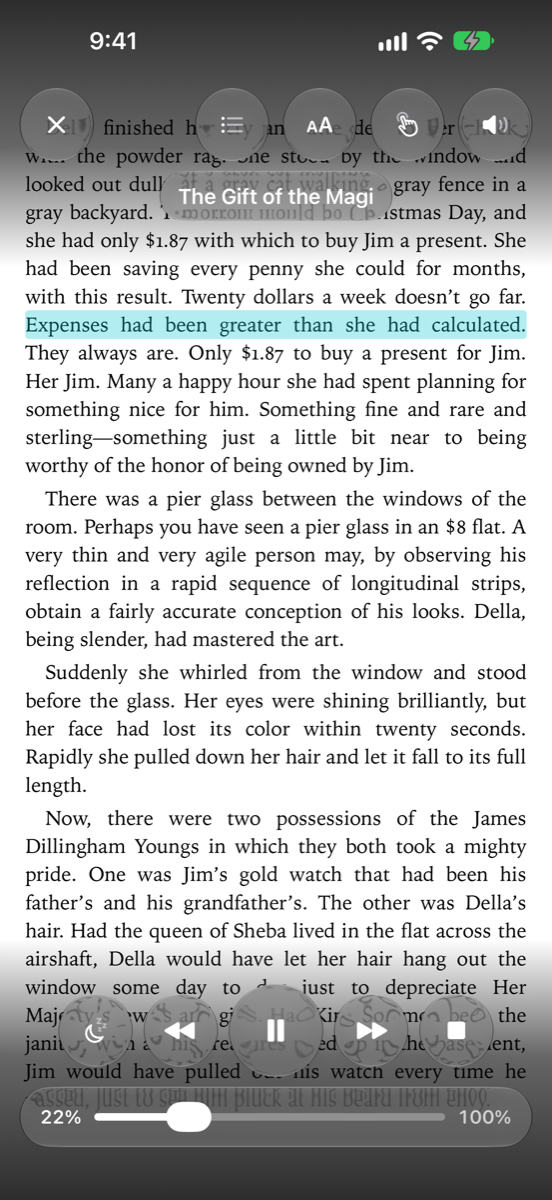
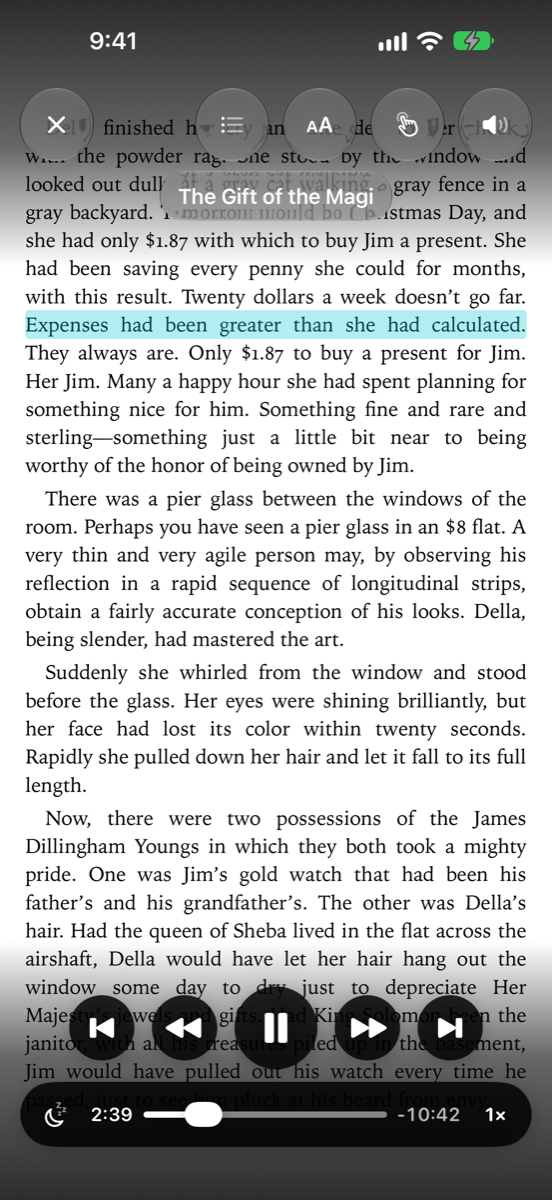
Publish the guide (from 3606d802)

Changed region(s): [[0.0308, 0.8017, 0.9855, 0.9558]]

diff --git a/Reader.md b/Reader.md
@@ -145,9 +145,9 @@ An EPUB's text reflows to fit your screen. Its controls are a little different:
   - **Text Size**, **Font** (the book's own, or one of several, including OpenDyslexic), **Margins**, **Columns** (**Automatic**, **One Column** or **Two Columns**), **Line Spacing**, **Paragraph Spacing**, **Justify** and **Hyphenation**.
   - **Book's Layout** keeps the layout the book was made with.
   - **Turn Style**: **Slide**, **Curl**, **Instant** or **Vertical Scroll**.
-- **Read Aloud** (the speaker) reads the book to you from the page you're on. Its speed and whether it turns pages for you are in Settings → Reading → **Turning Pages**.
+- **Read Aloud** (the speaker) reads the book to you from the page you're on, and tap it again to stop. While it reads, a row of buttons like the video player's sits at the bottom: **Previous Chapter**, **Previous Sentence**, a large **Pause** in the middle, **Next Sentence** and **Next Chapter**. The sleep timer (the moon) and the speed sit either side of the scrubber. **Previous Chapter** goes back to the start of the chapter, or to the one before if you're right at its start. Whether it turns pages for you is in Settings → Reading → **Turning Pages**.
 
-The scrubber moves through the book by position. With **Shade Behind Controls** on, the dark shade sits behind the buttons, the Read Aloud bar and the scrubber here too, and they turn light so they stand out on a white page. Tap zones, keys and page turners work as they do for comics. As with comics, what you change in **Aa** is for this book only; **Aa** also has this book's Read Aloud speed and highlight.
+The scrubber moves through the book by position. With **Shade Behind Controls** on, the dark shade sits behind the buttons, the Read Aloud controls and the scrubber here too, and they turn light so they stand out on a white page. Tap zones, keys and page turners work as they do for comics. As with comics, what you change in **Aa** is for this book only; **Aa** also has this book's Read Aloud speed and highlight.
 
 As in a printed book, the chapter's name and the time left in it sit above the text, and a page number sits under each page, counted from the start of the chapter. They show while the controls are hidden. Turn each off in Settings → Reading → **Book Types** → **Around the Text**.
 
@@ -166,12 +166,12 @@ Some EPUBs carry their own recording, with each sentence marked as it's spoken. 
 
 - The sentence being spoken is highlighted (in teal, or the color you pick in Settings → Reading → Turning Pages → **Highlight Color**), and the page turns to follow it.
 - A sentence that would run past the bottom of a page starts on the next page instead, so the highlighted sentence isn't cut in two by a page turn. Pages sometimes end early because of it, but never with more than a third of the page left blank: where moving a sentence would leave more, it stays split. A split sentence, or one longer than a whole page, turns to its next page as the narration reaches it. To lay the pages out as other books are, turn off Settings → Reading → **Turning Pages** → **Keep Sentences on One Page**.
-- The Read Aloud bar is laid out like the video player's controls: the sleep timer, **Previous Sentence**, a large **Pause** in the middle, **Next Sentence**, then **Stop**.
+- Under the row of buttons, a timeline shows the chapter: the time played and the time left. Drag it to move through the chapter. The sleep timer and the speed sit at its ends.
 - It keeps playing when you lock your iPhone or switch apps, and the Lock Screen shows the book with play, pause and skip.
 - The speed and the sleep timer (the moon) work as they do for the iPhone's voice.
 
 <div class="shot" markdown="0">
-<div class="shot-variant shot-iphone-18-pro-max"><img src="images/iphone-18-pro-max/readaloud-narration.png" alt="The Gift of the Magi playing its own narration in the reader on an iPhone 18 Pro Max, with the spoken sentence highlighted and the Read Aloud bar along the bottom: sleep timer, Previous Sentence, Pause, Next Sentence and Stop, on an iPhone 18 Pro Max" loading="lazy"><div class="shot-label">iPhone 18 Pro Max</div></div>
+<div class="shot-variant shot-iphone-18-pro-max"><img src="images/iphone-18-pro-max/readaloud-narration.png" alt="The Gift of the Magi playing its own narration in the reader on an iPhone 18 Pro Max, with the spoken sentence highlighted and the Read Aloud controls along the bottom: Previous Chapter, Previous Sentence, Pause, Next Sentence and Next Chapter over the chapter's timeline, with the sleep timer and speed at its ends, on an iPhone 18 Pro Max" loading="lazy"><div class="shot-label">iPhone 18 Pro Max</div></div>
 </div>
 
 To have a catalog's readaloud books start playing as they open, turn on **Play Narration When a Book Opens** on its page: see [Storyteller](OPDS-Catalogs.html#storyteller). To have these books read in the iPhone's voice instead, turn off Settings → Reading → **Turning Pages** → **Use the Book's Narration**.

diff --git a/whats-new.md b/whats-new.md
@@ -12,6 +12,29 @@ The highlights of each MK Plus update since public TestFlight testing began (ver
 
 ## November 2026
 
+### Read Aloud controls like the video player's
+
+_Version 1.418.0 · 24 November 2026_
+
+- Read Aloud's buttons are now a row like the video player's, with a big Play/Pause, a sentence back and on, and a chapter back and on, dark so you can see them on a white page.
+- A book with its own narration shows a timeline of the chapter: time played and left, and drag it to move through the chapter.
+- The sleep timer and the speed sit at the timeline's ends. The speaker at the top stops reading.
+
+<img src="images/iphone-18-pro-max/readaloud-narration.png" width="300" alt="A Storyteller book reading aloud its own narration on an iPhone 18 Pro Max: the spoken sentence highlighted, and at the bottom the dark row of Previous Chapter, Previous Sentence, a large Pause, Next Sentence and Next Chapter over the chapter's timeline, 2:39 played and 10:42 left, with the sleep timer and 1× at its ends">
+
+<details markdown="1">
+<summary>Everything in 1.418.0</summary>
+
+**Changed**
+
+- While a book reads aloud, its controls are a row like the video player's: a chapter back, a sentence back, a big Play/Pause, a sentence on and a chapter on, in dark circles you can see on any page.
+- A book with its own narration shows the chapter's timeline under them, with time played and left. Drag it to move through the chapter. The sleep timer and the speed are at its ends.
+- With the system voice there's no timeline, so the sleep timer and speed sit either side of the book's slider, and you can now go a sentence or a chapter back and on with it too.
+- Previous Chapter goes back to the start of the chapter, or to the one before if you're right at its start.
+- To stop reading, tap the speaker at the top. There's no Stop button in the row any more, unless the speaker has no room at the top.
+
+</details>
+
 ### Sign in to Storyteller with Google
 
 _Version 1.417.0 · 24 November 2026_
